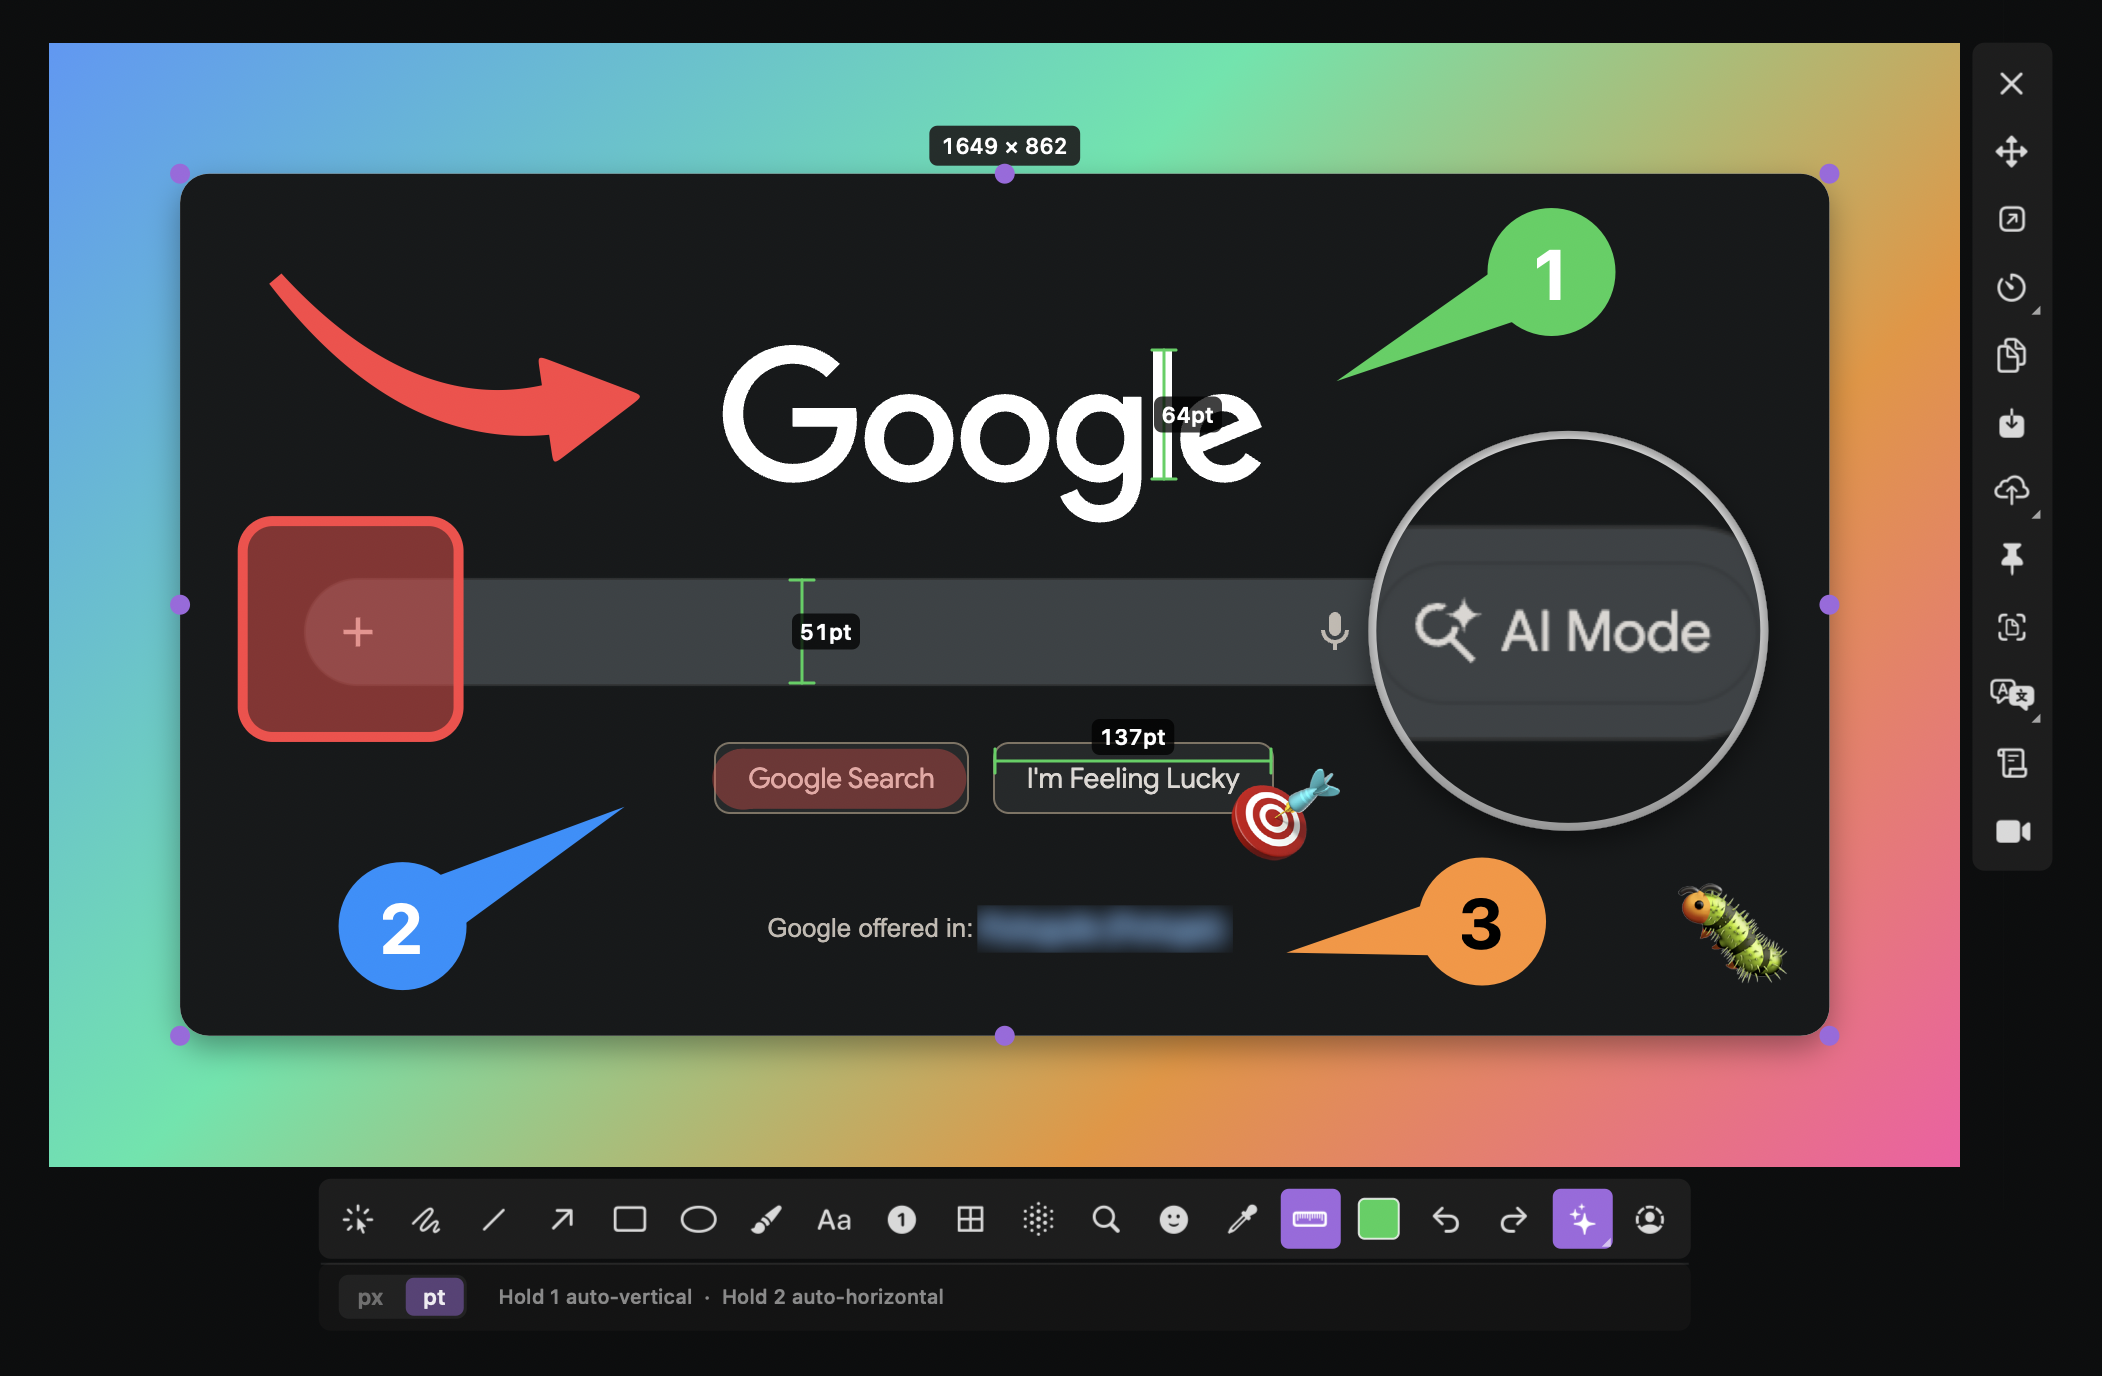
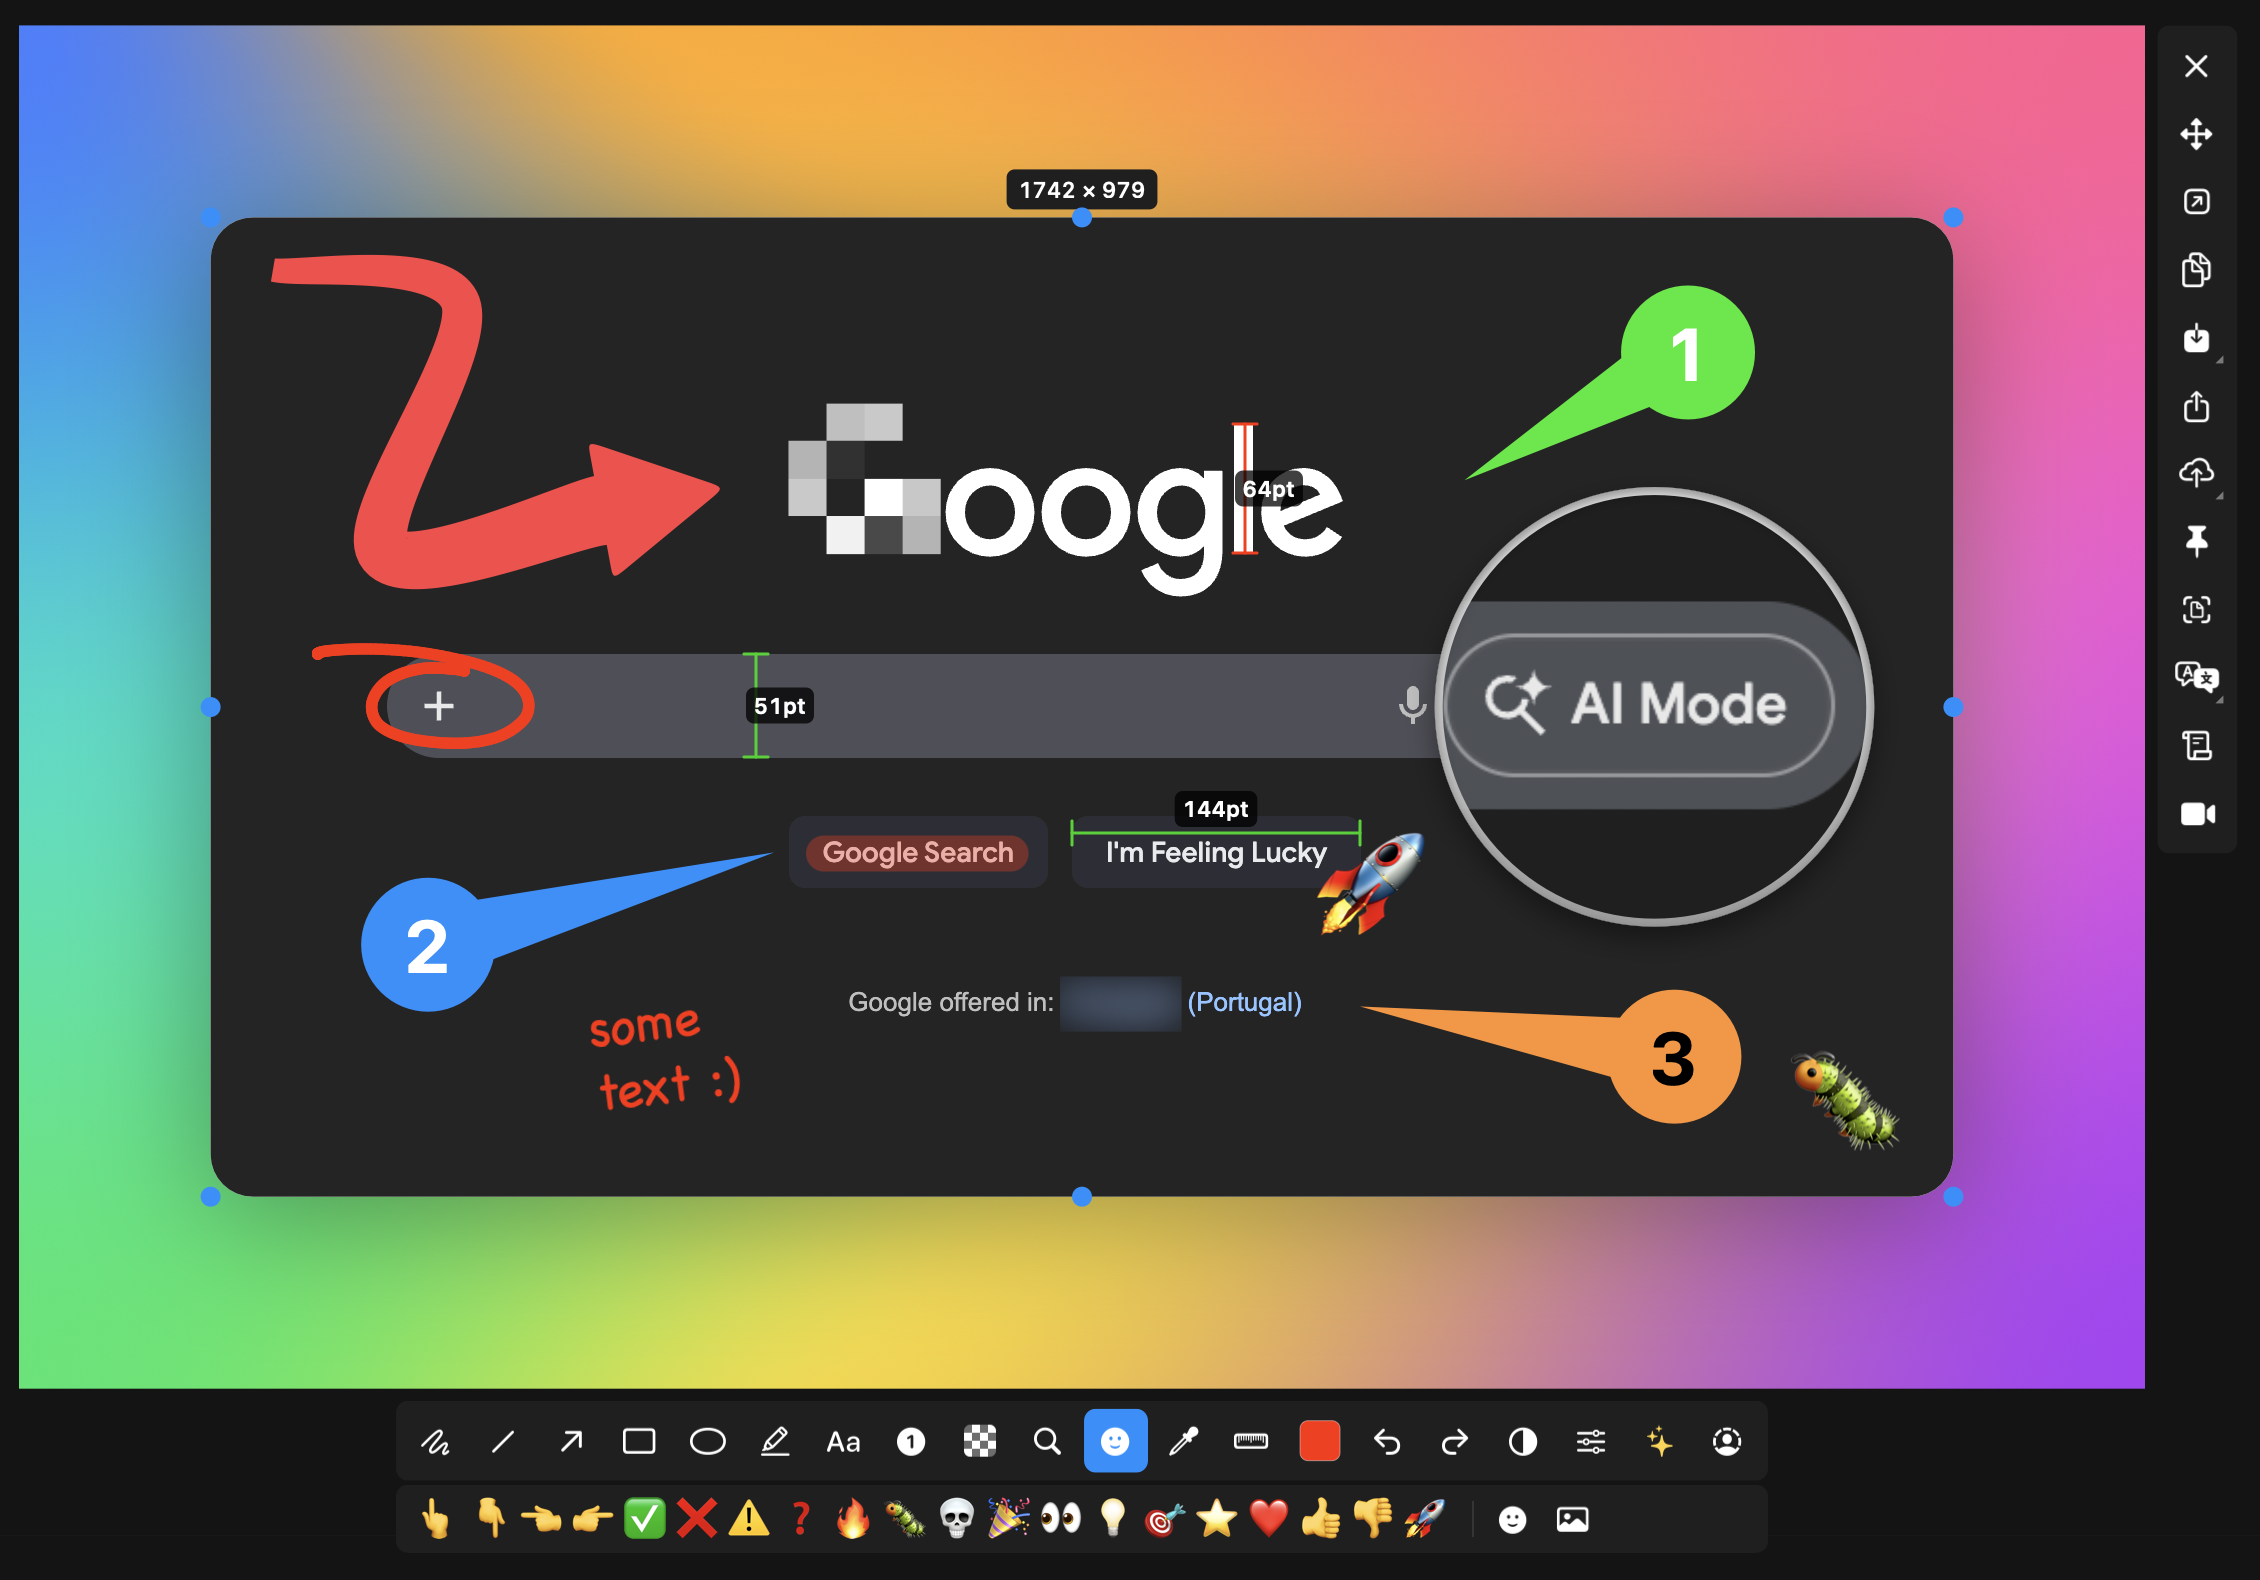
docs: refresh preview image with a richer annotation demo
New preview shows the full annotation toolset in action (arrows, blur,
measurement, numbered callouts, text, emoji, beautify) over a Google
search screenshot — a better showcase than the previous image.

Replaces assets/preview.png (README) and website/preview.png +
website/preview.webp (site). WebP re-encoded at q=80 (~75 KB) so the
LCP win from the prior SEO pass still holds. Alt text updated to
reflect the new content.

diff --git a/website/index.html b/website/index.html
@@ -181,7 +181,7 @@ View on GitHub
 <div class="wrap">
 <picture>
 <source srcset="preview.webp" type="image/webp">
-<img src="preview.png" alt="macshot annotation toolbar with arrow, blur, text, and shape tools over a screenshot on macOS" width="700" loading="lazy">
+<img src="preview.png" alt="macshot annotation toolbar demonstrating arrows, blur, measurements, numbered callouts, text, emoji, and beautify over a Google search screenshot on macOS" width="700" loading="lazy">
 </picture>
 </div>
 </section>
